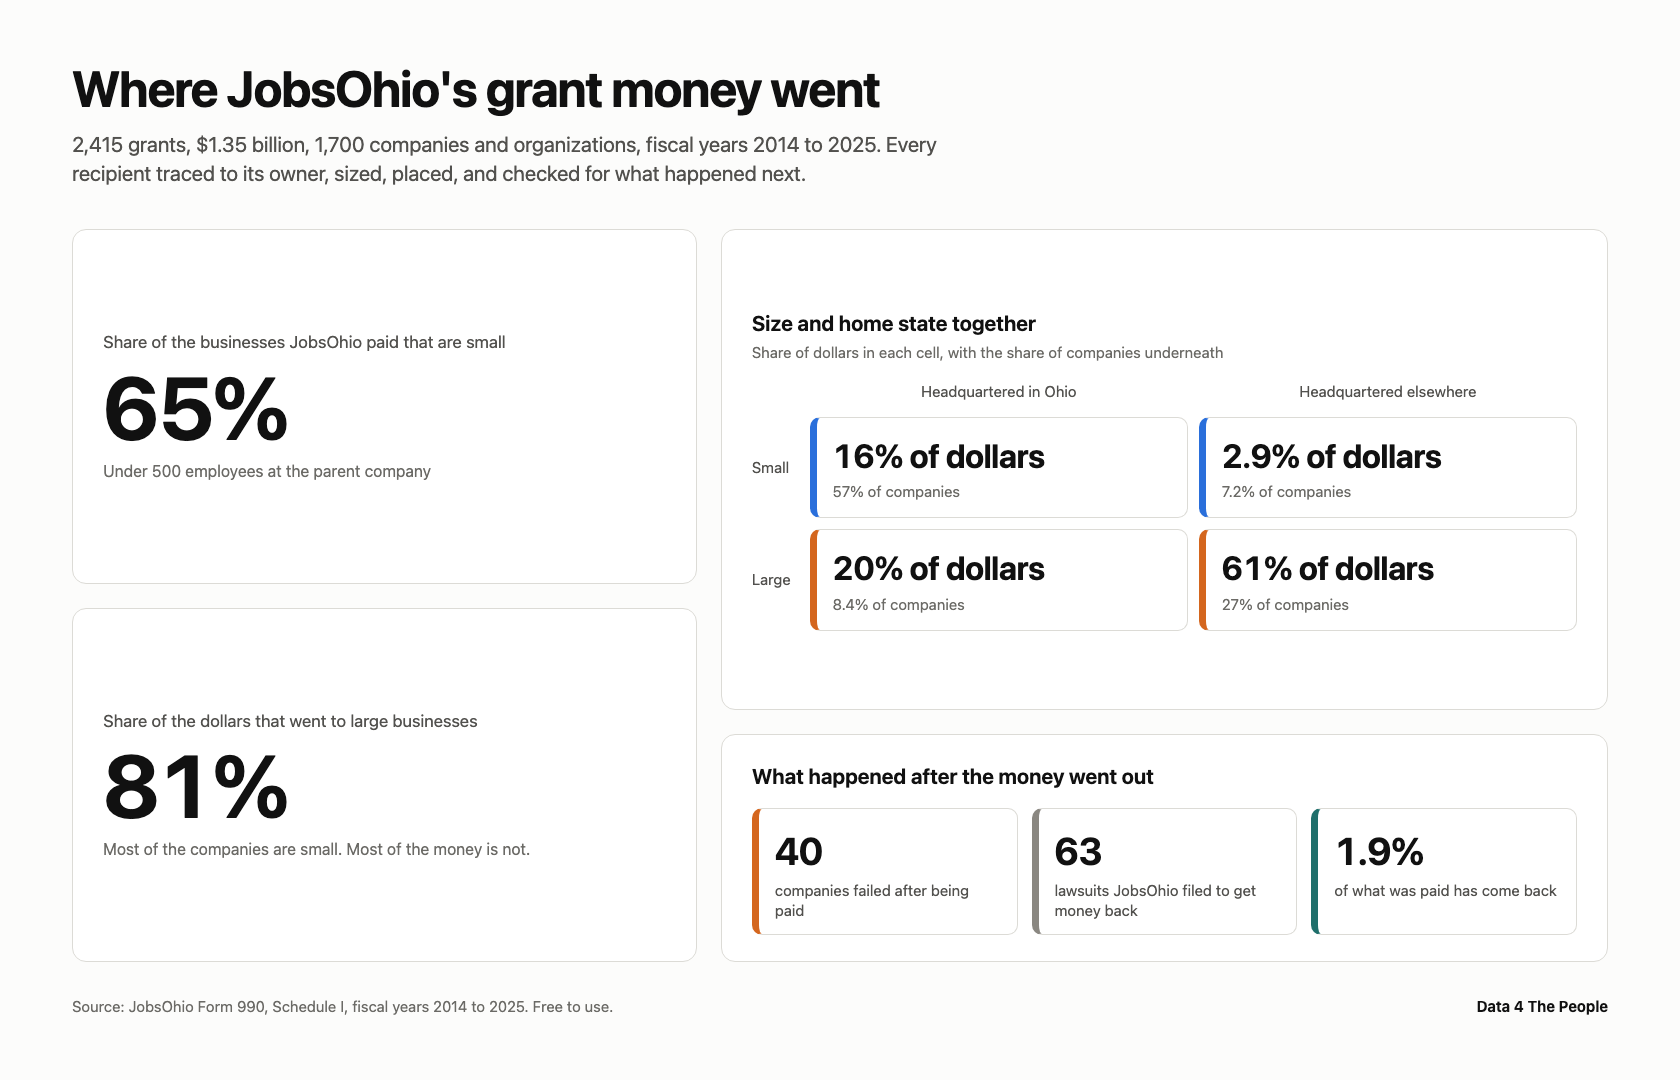
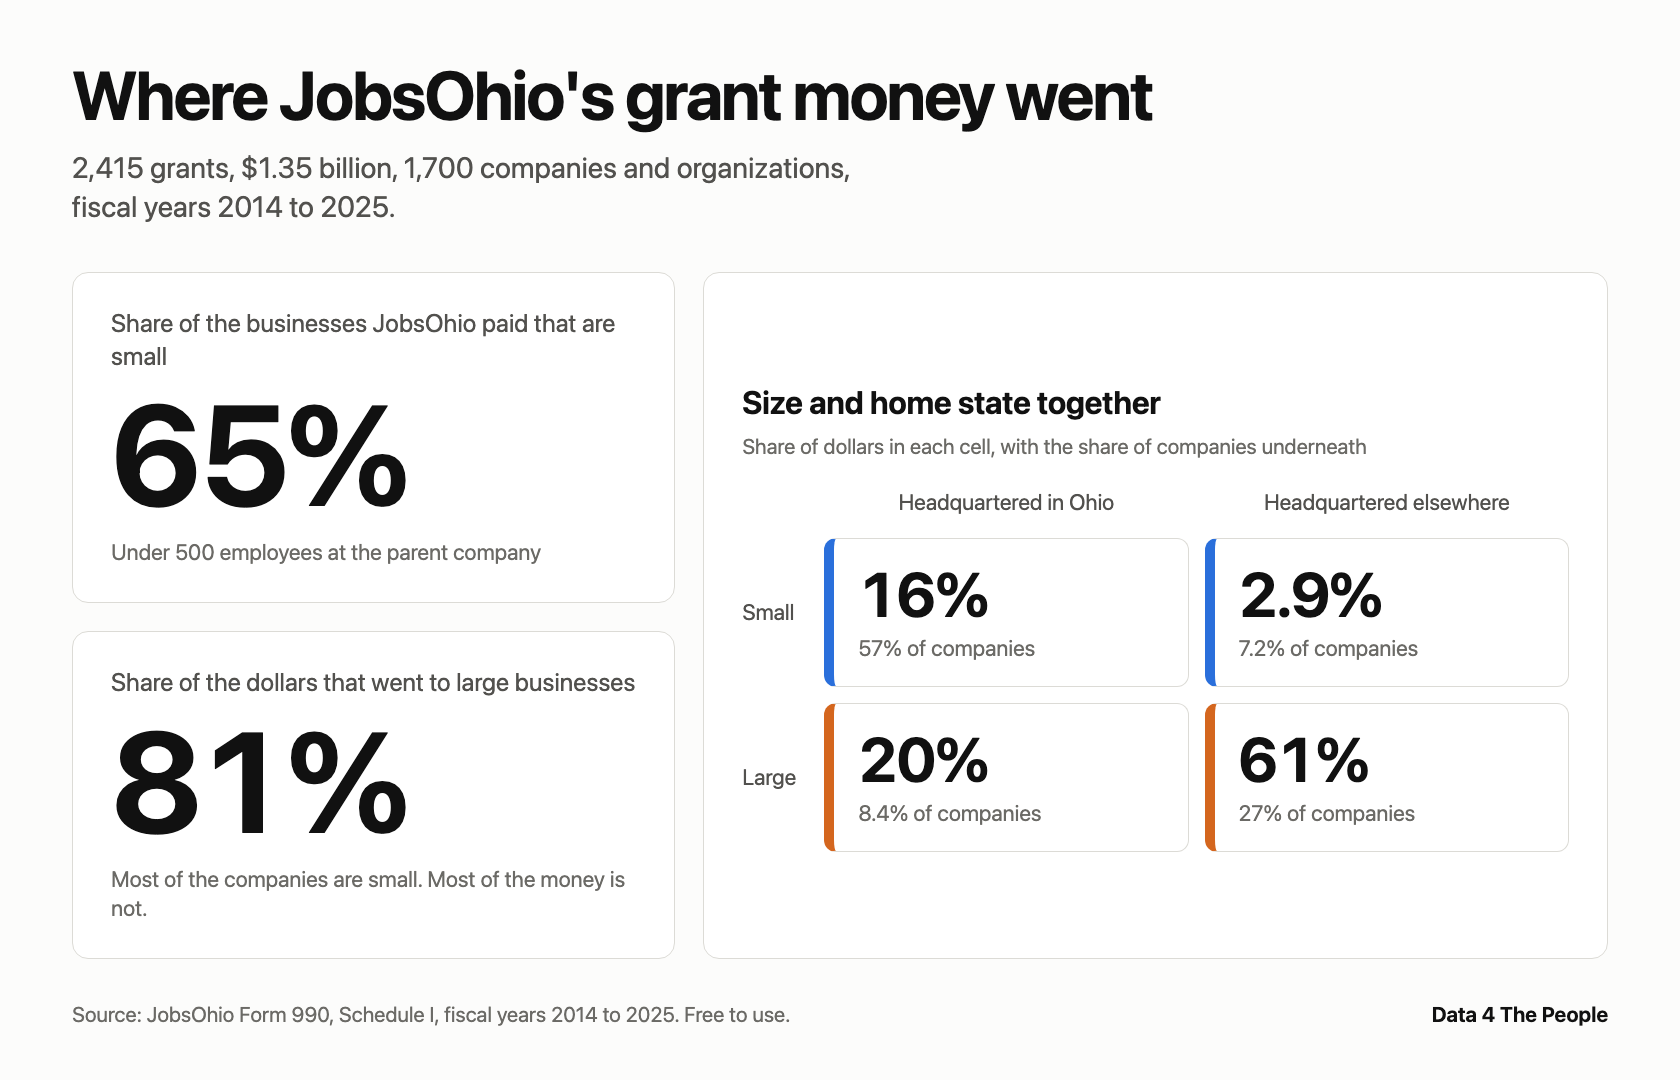
jobsohio-grants: 2d, bigger type on the hero and no undefined words
Two problems with the first cut. The type was page-sized, not hero-sized,
so nothing read at thumbnail scale. And it carried "40 companies failed
after being paid", using a word the post has not defined at the point
someone meets the image.

Both come from the same mistake, putting the page's density on a hero.
The outcome tiles are gone, which removes the word and frees the room
the remaining figures needed. Headline 68px, the two stat numbers 142px,
the grid cells 62px, and the cells say "16%" rather than "16% of
dollars", which the line above them already said and which was wrapping
every cell to two lines.

Alt text rewritten to match, 471 characters.

diff --git a/posts/jobsohio-grants/images/jobsohio-grants-hero-source.html b/posts/jobsohio-grants/images/jobsohio-grants-hero-source.html
@@ -4,72 +4,59 @@
   html,body{width:1680px;height:1080px}
   body{background:#fcfcfb;color:#111;
     font:16px/1.45 -apple-system,BlinkMacSystemFont,"Segoe UI",Helvetica,Arial,sans-serif;
-    padding:62px 72px;display:flex;flex-direction:column}
-  h1{font-size:50px;line-height:1.08;letter-spacing:-.022em;font-weight:680}
-  .sub{font-size:21px;color:#52514e;margin-top:14px;max-width:72ch;line-height:1.4}
-  .cards{display:grid;grid-template-columns:1fr 1.42fr;gap:24px;margin-top:40px;
+    padding:58px 72px;display:flex;flex-direction:column}
+  h1{font-size:68px;line-height:1.06;letter-spacing:-.026em;font-weight:680}
+  .sub{font-size:29px;color:#52514e;margin-top:18px;max-width:46ch;line-height:1.35}
+  .cards{display:grid;grid-template-columns:1fr 1.5fr;gap:28px;margin-top:46px;
     flex:1;align-content:stretch}
-  .col{display:flex;flex-direction:column;gap:24px}
-  .card{border:1px solid #dcdbd6;border-radius:14px;padding:26px 30px;background:#fff;
-    display:flex;flex-direction:column;justify-content:center}
-  .card.grow{flex:1}
-  .lab{font-size:17px;color:#52514e}
-  .val{font-size:88px;font-weight:680;letter-spacing:-.025em;line-height:1;margin-top:8px;
+  .col{display:flex;flex-direction:column;gap:28px}
+  .card{border:1px solid #dcdbd6;border-radius:16px;padding:34px 38px;background:#fff;
+    display:flex;flex-direction:column;justify-content:center;flex:1}
+  .lab{font-size:25px;color:#52514e;line-height:1.3}
+  .val{font-size:142px;font-weight:680;letter-spacing:-.03em;line-height:1;margin-top:10px;
     font-variant-numeric:tabular-nums}
-  .hint{font-size:16px;color:#6b6a66;margin-top:10px;line-height:1.35}
-  h2{font-size:21px;font-weight:650}
-  .note{font-size:15px;color:#6b6a66;margin-top:4px}
-  .two{display:grid;grid-template-columns:auto 1fr 1fr;gap:11px;margin-top:17px}
-  .hd{font-size:15px;color:#52514e;text-align:center;align-self:end;padding-bottom:3px}
-  .rh{font-size:15px;color:#52514e;align-self:center;padding-right:8px}
-  .cell{border:1px solid #dcdbd6;border-left-width:7px;border-radius:10px;padding:14px 16px}
-  .cell .v{font-size:33px;font-weight:660;letter-spacing:-.018em;font-variant-numeric:tabular-nums}
-  .cell .s{font-size:15px;color:#6b6a66;margin-top:2px}
-  .outs{display:grid;grid-template-columns:1fr 1fr 1fr;gap:14px;margin-top:17px}
-  .o{border:1px solid #dcdbd6;border-left-width:7px;border-radius:10px;padding:14px 16px}
-  .o .v{font-size:38px;font-weight:660;letter-spacing:-.018em;font-variant-numeric:tabular-nums}
-  .o .k{font-size:15px;color:#52514e;margin-top:3px;line-height:1.3}
-  .foot{display:flex;justify-content:space-between;align-items:flex-end;margin-top:34px;
-    font-size:15px;color:#6b6a66}
+  .hint{font-size:22px;color:#6b6a66;margin-top:14px;line-height:1.35}
+  h2{font-size:32px;font-weight:650;letter-spacing:-.012em}
+  .note{font-size:21px;color:#6b6a66;margin-top:7px;line-height:1.35}
+  .two{display:grid;grid-template-columns:auto 1fr 1fr;gap:16px;margin-top:26px}
+  .hd{font-size:22px;color:#52514e;text-align:center;align-self:end;padding-bottom:4px}
+  .rh{font-size:22px;color:#52514e;align-self:center;padding-right:12px}
+  .cell{border:1px solid #dcdbd6;border-left-width:10px;border-radius:12px;padding:22px 24px}
+  .cell .v{font-size:62px;font-weight:660;letter-spacing:-.025em;line-height:1.05;
+    font-variant-numeric:tabular-nums}
+  .cell .s{font-size:22px;color:#6b6a66;margin-top:6px}
+  .foot{display:flex;justify-content:space-between;align-items:flex-end;margin-top:40px;
+    font-size:21px;color:#6b6a66}
   .foot b{color:#111;font-weight:650}
 </style></head><body>
   <h1>Where JobsOhio's grant money went</h1>
   <p class="sub">2,415 grants, $1.35 billion, 1,700 companies and organizations,
-     fiscal years 2014 to 2025. Every recipient traced to its owner, sized,
-     placed, and checked for what happened next.</p>
+     fiscal years 2014 to 2025.</p>
   <div class="cards">
     <div class="col">
-      <div class="card grow">
+      <div class="card">
         <div class="lab">Share of the businesses JobsOhio paid that are small</div>
         <div class="val">65%</div>
         <div class="hint">Under 500 employees at the parent company</div>
       </div>
-      <div class="card grow">
+      <div class="card">
         <div class="lab">Share of the dollars that went to large businesses</div>
         <div class="val">81%</div>
         <div class="hint">Most of the companies are small. Most of the money is not.</div>
       </div>
     </div>
     <div class="col">
-      <div class="card grow">
+      <div class="card">
         <h2>Size and home state together</h2>
         <p class="note">Share of dollars in each cell, with the share of companies underneath</p>
         <div class="two">
           <div></div><div class="hd">Headquartered in Ohio</div><div class="hd">Headquartered elsewhere</div>
           <div class="rh">Small</div>
-          <div class="cell" style="border-left-color:#2a6fdb"><div class="v">16% of dollars</div><div class="s">57% of companies</div></div>
-          <div class="cell" style="border-left-color:#2a6fdb"><div class="v">2.9% of dollars</div><div class="s">7.2% of companies</div></div>
+          <div class="cell" style="border-left-color:#2a6fdb"><div class="v">16%</div><div class="s">57% of companies</div></div>
+          <div class="cell" style="border-left-color:#2a6fdb"><div class="v">2.9%</div><div class="s">7.2% of companies</div></div>
           <div class="rh">Large</div>
-          <div class="cell" style="border-left-color:#d4661e"><div class="v">20% of dollars</div><div class="s">8.4% of companies</div></div>
-          <div class="cell" style="border-left-color:#d4661e"><div class="v">61% of dollars</div><div class="s">27% of companies</div></div>
-        </div>
-      </div>
-      <div class="card">
-        <h2>What happened after the money went out</h2>
-        <div class="outs">
-          <div class="o" style="border-left-color:#d4661e"><div class="v">40</div><div class="k">companies failed after being paid</div></div>
-          <div class="o" style="border-left-color:#8a8781"><div class="v">63</div><div class="k">lawsuits JobsOhio filed to get money back</div></div>
-          <div class="o" style="border-left-color:#1F6F6B"><div class="v">1.9%</div><div class="k">of what was paid has come back</div></div>
+          <div class="cell" style="border-left-color:#d4661e"><div class="v">20%</div><div class="s">8.4% of companies</div></div>
+          <div class="cell" style="border-left-color:#d4661e"><div class="v">61%</div><div class="s">27% of companies</div></div>
         </div>
       </div>
     </div>

diff --git a/scripts/48_hero.py b/scripts/48_hero.py
@@ -1,6 +1,13 @@
 #!/usr/bin/env python3
 """Build the 1680x1080 hero: a simplified view of the tool's own cards.
 
+It carries the two headline tiles and the size-by-home-state grid, and
+nothing else. Two things drove that. Type has to be readable when the image
+is a thumbnail, which means fewer elements and much larger type than the page
+uses. And the hero cannot use a word the post has not defined yet: the outcome
+figures were on it until the word "failed" turned out to be meaningless to
+someone meeting the project at the hero. (Eric Pachman, November 17, 2026.)
+
 Not a screenshot of the page. A screenshot at hero size is unreadable, and
 cropping one to 1680x1080 cuts the cards in half. This lays out a selection
 of the cards at hero scale, so every figure on it is legible at the size the
@@ -28,7 +35,6 @@ W, H = 1680, 1080
 
 def figures():
     d = json.loads((ROOT / "dist" / "data.json").read_text())
-    S = d["summary"]
     biz = [p for p in d["parents_table"] if p["class"] == "business"]
 
     def size(p):
@@ -50,10 +56,6 @@ def figures():
         "small_n": 100 * sum(1 for p in biz if size(p) == "small") / len(biz),
         "large_cash": 100 * sum(p["cash"] for p in biz if size(p) == "large")
                       / sum(p["cash"] for p in biz),
-        "failures": S["failures"]["companies"],
-        "failed_cash": S["failures"]["paid"],
-        "sued": S["sued"]["suits"],
-        "returned_pct": 100 * S["returned"]["share_of_paid"],
     }
 
 
@@ -63,72 +65,59 @@ PAGE = """<!doctype html><html><head><meta charset="utf-8"><style>
   html,body{{width:{W}px;height:{H}px}}
   body{{background:#fcfcfb;color:#111;
     font:16px/1.45 -apple-system,BlinkMacSystemFont,"Segoe UI",Helvetica,Arial,sans-serif;
-    padding:62px 72px;display:flex;flex-direction:column}}
-  h1{{font-size:50px;line-height:1.08;letter-spacing:-.022em;font-weight:680}}
-  .sub{{font-size:21px;color:#52514e;margin-top:14px;max-width:72ch;line-height:1.4}}
-  .cards{{display:grid;grid-template-columns:1fr 1.42fr;gap:24px;margin-top:40px;
+    padding:58px 72px;display:flex;flex-direction:column}}
+  h1{{font-size:68px;line-height:1.06;letter-spacing:-.026em;font-weight:680}}
+  .sub{{font-size:29px;color:#52514e;margin-top:18px;max-width:46ch;line-height:1.35}}
+  .cards{{display:grid;grid-template-columns:1fr 1.5fr;gap:28px;margin-top:46px;
     flex:1;align-content:stretch}}
-  .col{{display:flex;flex-direction:column;gap:24px}}
-  .card{{border:1px solid #dcdbd6;border-radius:14px;padding:26px 30px;background:#fff;
-    display:flex;flex-direction:column;justify-content:center}}
-  .card.grow{{flex:1}}
-  .lab{{font-size:17px;color:#52514e}}
-  .val{{font-size:88px;font-weight:680;letter-spacing:-.025em;line-height:1;margin-top:8px;
+  .col{{display:flex;flex-direction:column;gap:28px}}
+  .card{{border:1px solid #dcdbd6;border-radius:16px;padding:34px 38px;background:#fff;
+    display:flex;flex-direction:column;justify-content:center;flex:1}}
+  .lab{{font-size:25px;color:#52514e;line-height:1.3}}
+  .val{{font-size:142px;font-weight:680;letter-spacing:-.03em;line-height:1;margin-top:10px;
     font-variant-numeric:tabular-nums}}
-  .hint{{font-size:16px;color:#6b6a66;margin-top:10px;line-height:1.35}}
-  h2{{font-size:21px;font-weight:650}}
-  .note{{font-size:15px;color:#6b6a66;margin-top:4px}}
-  .two{{display:grid;grid-template-columns:auto 1fr 1fr;gap:11px;margin-top:17px}}
-  .hd{{font-size:15px;color:#52514e;text-align:center;align-self:end;padding-bottom:3px}}
-  .rh{{font-size:15px;color:#52514e;align-self:center;padding-right:8px}}
-  .cell{{border:1px solid #dcdbd6;border-left-width:7px;border-radius:10px;padding:14px 16px}}
-  .cell .v{{font-size:33px;font-weight:660;letter-spacing:-.018em;font-variant-numeric:tabular-nums}}
-  .cell .s{{font-size:15px;color:#6b6a66;margin-top:2px}}
-  .outs{{display:grid;grid-template-columns:1fr 1fr 1fr;gap:14px;margin-top:17px}}
-  .o{{border:1px solid #dcdbd6;border-left-width:7px;border-radius:10px;padding:14px 16px}}
-  .o .v{{font-size:38px;font-weight:660;letter-spacing:-.018em;font-variant-numeric:tabular-nums}}
-  .o .k{{font-size:15px;color:#52514e;margin-top:3px;line-height:1.3}}
-  .foot{{display:flex;justify-content:space-between;align-items:flex-end;margin-top:34px;
-    font-size:15px;color:#6b6a66}}
+  .hint{{font-size:22px;color:#6b6a66;margin-top:14px;line-height:1.35}}
+  h2{{font-size:32px;font-weight:650;letter-spacing:-.012em}}
+  .note{{font-size:21px;color:#6b6a66;margin-top:7px;line-height:1.35}}
+  .two{{display:grid;grid-template-columns:auto 1fr 1fr;gap:16px;margin-top:26px}}
+  .hd{{font-size:22px;color:#52514e;text-align:center;align-self:end;padding-bottom:4px}}
+  .rh{{font-size:22px;color:#52514e;align-self:center;padding-right:12px}}
+  .cell{{border:1px solid #dcdbd6;border-left-width:10px;border-radius:12px;padding:22px 24px}}
+  .cell .v{{font-size:62px;font-weight:660;letter-spacing:-.025em;line-height:1.05;
+    font-variant-numeric:tabular-nums}}
+  .cell .s{{font-size:22px;color:#6b6a66;margin-top:6px}}
+  .foot{{display:flex;justify-content:space-between;align-items:flex-end;margin-top:40px;
+    font-size:21px;color:#6b6a66}}
   .foot b{{color:#111;font-weight:650}}
 </style></head><body>
   <h1>Where JobsOhio's grant money went</h1>
   <p class="sub">{rows} grants, {cash}, {parents} companies and organizations,
-     fiscal years {fy0} to {fy1}. Every recipient traced to its owner, sized,
-     placed, and checked for what happened next.</p>
+     fiscal years {fy0} to {fy1}.</p>
   <div class="cards">
     <div class="col">
-      <div class="card grow">
+      <div class="card">
         <div class="lab">Share of the businesses JobsOhio paid that are small</div>
         <div class="val">{small_n:.0f}%</div>
         <div class="hint">Under 500 employees at the parent company</div>
       </div>
-      <div class="card grow">
+      <div class="card">
         <div class="lab">Share of the dollars that went to large businesses</div>
         <div class="val">{large_cash:.0f}%</div>
         <div class="hint">Most of the companies are small. Most of the money is not.</div>
       </div>
     </div>
     <div class="col">
-      <div class="card grow">
+      <div class="card">
         <h2>Size and home state together</h2>
         <p class="note">Share of dollars in each cell, with the share of companies underneath</p>
         <div class="two">
           <div></div><div class="hd">Headquartered in Ohio</div><div class="hd">Headquartered elsewhere</div>
           <div class="rh">Small</div>
-          <div class="cell" style="border-left-color:#2a6fdb"><div class="v">{so_c:.0f}% of dollars</div><div class="s">{so_n:.0f}% of companies</div></div>
-          <div class="cell" style="border-left-color:#2a6fdb"><div class="v">{sx_c:.1f}% of dollars</div><div class="s">{sx_n:.1f}% of companies</div></div>
+          <div class="cell" style="border-left-color:#2a6fdb"><div class="v">{so_c:.0f}%</div><div class="s">{so_n:.0f}% of companies</div></div>
+          <div class="cell" style="border-left-color:#2a6fdb"><div class="v">{sx_c:.1f}%</div><div class="s">{sx_n:.1f}% of companies</div></div>
           <div class="rh">Large</div>
-          <div class="cell" style="border-left-color:#d4661e"><div class="v">{lo_c:.0f}% of dollars</div><div class="s">{lo_n:.1f}% of companies</div></div>
-          <div class="cell" style="border-left-color:#d4661e"><div class="v">{lx_c:.0f}% of dollars</div><div class="s">{lx_n:.0f}% of companies</div></div>
-        </div>
-      </div>
-      <div class="card">
-        <h2>What happened after the money went out</h2>
-        <div class="outs">
-          <div class="o" style="border-left-color:#d4661e"><div class="v">{failures}</div><div class="k">companies failed after being paid</div></div>
-          <div class="o" style="border-left-color:#8a8781"><div class="v">{sued}</div><div class="k">lawsuits JobsOhio filed to get money back</div></div>
-          <div class="o" style="border-left-color:#1F6F6B"><div class="v">{returned:.1f}%</div><div class="k">of what was paid has come back</div></div>
+          <div class="cell" style="border-left-color:#d4661e"><div class="v">{lo_c:.0f}%</div><div class="s">{lo_n:.1f}% of companies</div></div>
+          <div class="cell" style="border-left-color:#d4661e"><div class="v">{lx_c:.0f}%</div><div class="s">{lx_n:.0f}% of companies</div></div>
         </div>
       </div>
     </div>
@@ -155,8 +144,7 @@ def main(argv):
         so_c=c[("small", "ohio")][0], so_n=c[("small", "ohio")][1],
         sx_c=c[("small", "other")][0], sx_n=c[("small", "other")][1],
         lo_c=c[("large", "ohio")][0], lo_n=c[("large", "ohio")][1],
-        lx_c=c[("large", "other")][0], lx_n=c[("large", "other")][1],
-        failures=f["failures"], sued=f["sued"], returned=f["returned_pct"])
+        lx_c=c[("large", "other")][0], lx_n=c[("large", "other")][1])
 
     out = ROOT / "posts" / slug / "images"
     out.mkdir(parents=True, exist_ok=True)

diff --git a/posts/jobsohio-grants/POST.md b/posts/jobsohio-grants/POST.md
@@ -5,7 +5,7 @@ slug: jobsohio-grants
 date: 2026-11-17T07:30:00-05:00
 section: Data 4 Thought
 hero: images/jobsohio-grants-hero-1680x1080.png
-hero_alt: Summary cards from the JobsOhio grants tool. Two headline figures: 65% of the businesses JobsOhio paid are small, under 500 employees at the parent company, and 81% of the dollars went to large businesses. A grid crossing size with home state shows the share of dollars: small Ohio 16%, small elsewhere 2.9%, large Ohio 20%, large elsewhere 61%. Three outcome figures: 40 companies failed after being paid, 63 lawsuits JobsOhio filed to get money back, and 1.9% of what was paid has come back.
+hero_alt: Summary cards from the JobsOhio grants tool, covering 2,415 grants and $1.35 billion to 1,700 companies and organizations, fiscal years 2014 to 2025. Two headline figures: 65% of the businesses JobsOhio paid are small, under 500 employees at the parent company, and 81% of the dollars went to large businesses. A grid crossing size with home state shows the share of dollars: small Ohio 16%, small elsewhere 2.9%, large Ohio 20%, large elsewhere 61%.
 meta_title:
 description:
 keywords:
